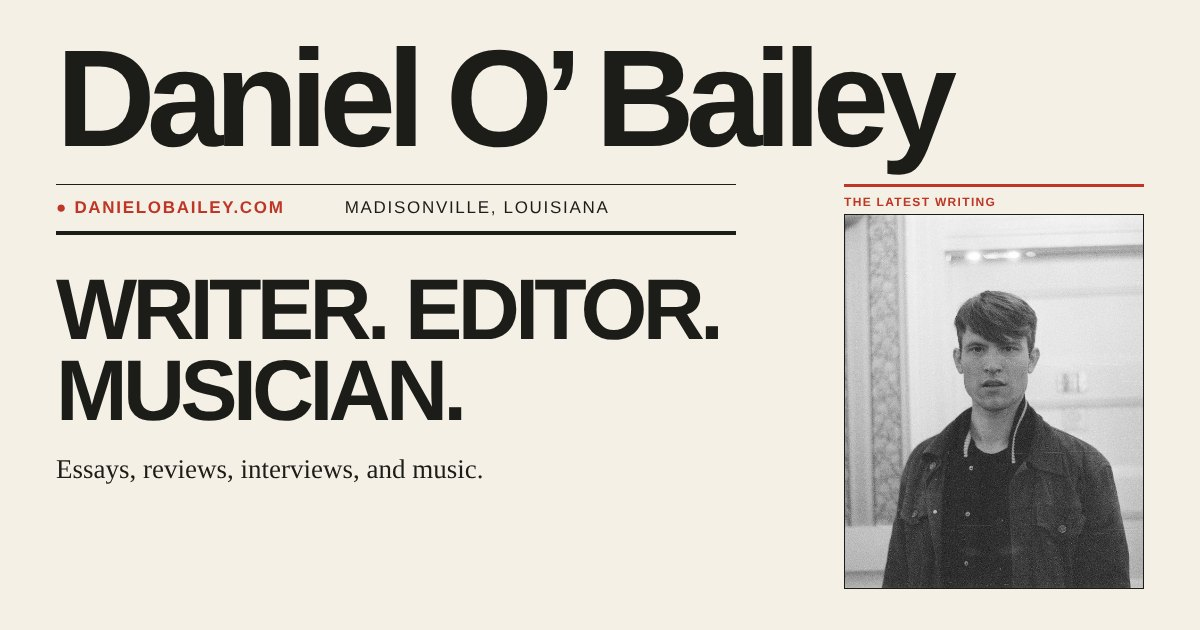
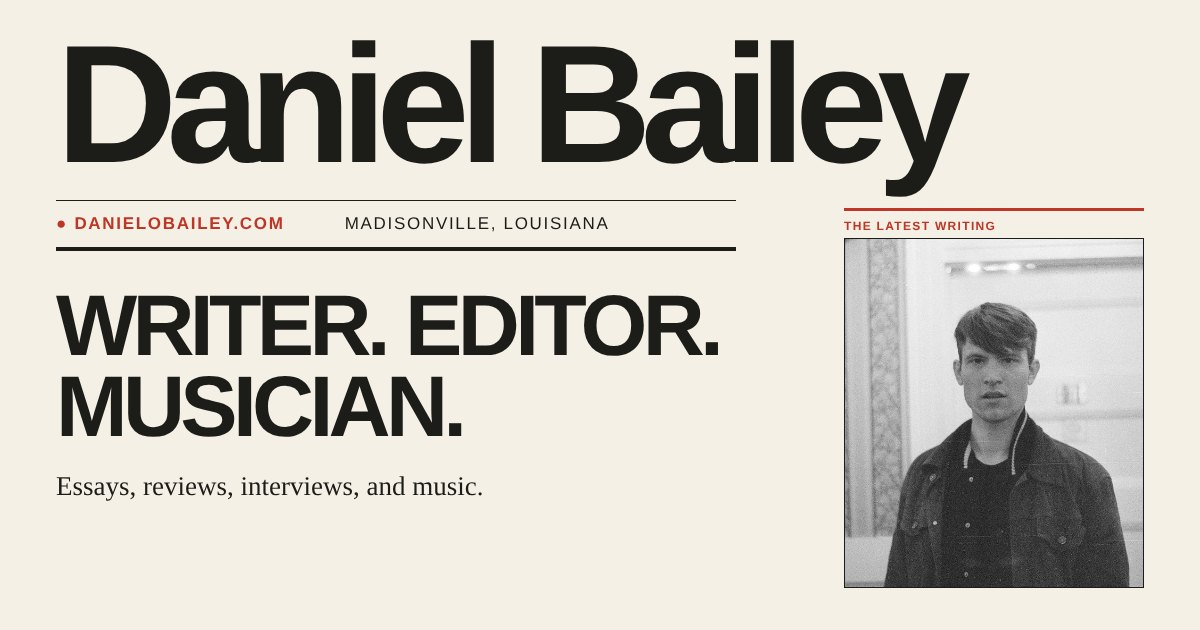
Use Daniel Bailey as the primary name
Switch the masthead, title, metadata, structured data, manifest and share
image to Daniel Bailey, keeping Daniel O' Bailey as an alternate name.
Add Madisonville to the title to separate this Daniel Bailey from others.

Claude-Session: https://claude.ai/code/session_01Q3Mwtffpc7b6nRW43CpaYg

diff --git a/index.html b/index.html
@@ -4,33 +4,33 @@
   <meta charset="UTF-8">
   <meta name="viewport" content="width=device-width, initial-scale=1.0">
 
-  <title>Daniel O' Bailey | Writer, Editor &amp; Musician in Louisiana</title>
-  <meta name="description" content="Daniel O' Bailey is a writer, editor, and musician from Madisonville, Louisiana. Read his latest essays, reviews, satire, and interviews, or hire him to write and edit.">
-  <meta name="author" content="Daniel O' Bailey">
+  <title>Daniel Bailey | Writer, Editor &amp; Musician in Madisonville, Louisiana</title>
+  <meta name="description" content="Daniel Bailey is a writer, editor, and musician from Madisonville, Louisiana. Read his latest essays, reviews, satire, and interviews, or hire him to write and edit.">
+  <meta name="author" content="Daniel Bailey">
   <meta name="robots" content="index, follow, max-image-preview:large, max-snippet:-1, max-video-preview:-1">
   <link rel="canonical" href="https://danielobailey.com/">
-  <link rel="alternate" type="application/rss+xml" title="Daniel O' Bailey on Substack" href="https://danielbaileyoffical.substack.com/feed">
+  <link rel="alternate" type="application/rss+xml" title="Daniel Bailey on Substack" href="https://danielbaileyoffical.substack.com/feed">
   <link rel="me" href="https://danielbaileyoffical.substack.com/">
   <link rel="me" href="https://www.instagram.com/danielbaileyoffical/">
 
   <!-- Social sharing -->
   <meta property="og:type" content="profile">
-  <meta property="og:site_name" content="Daniel O' Bailey">
+  <meta property="og:site_name" content="Daniel Bailey">
   <meta property="og:url" content="https://danielobailey.com/">
-  <meta property="og:title" content="Daniel O' Bailey | Writer, Editor &amp; Musician in Louisiana">
+  <meta property="og:title" content="Daniel Bailey | Writer, Editor &amp; Musician in Madisonville, Louisiana">
   <meta property="og:description" content="Essays, reviews, satire, and interviews from a Louisiana writer, editor, and musician. Read the latest or get in touch about a project.">
   <meta property="og:image" content="https://danielobailey.com/og-image.jpg">
   <meta property="og:image:width" content="1200">
   <meta property="og:image:height" content="630">
-  <meta property="og:image:alt" content="Daniel O' Bailey, writer, editor and musician from Madisonville, Louisiana">
+  <meta property="og:image:alt" content="Daniel Bailey, writer, editor and musician from Madisonville, Louisiana">
   <meta property="og:locale" content="en_US">
   <meta property="profile:first_name" content="Daniel">
   <meta property="profile:last_name" content="Bailey">
   <meta name="twitter:card" content="summary_large_image">
-  <meta name="twitter:title" content="Daniel O' Bailey | Writer, Editor &amp; Musician in Louisiana">
+  <meta name="twitter:title" content="Daniel Bailey | Writer, Editor &amp; Musician in Madisonville, Louisiana">
   <meta name="twitter:description" content="Essays, reviews, satire, and interviews from a Louisiana writer, editor, and musician.">
   <meta name="twitter:image" content="https://danielobailey.com/og-image.jpg">
-  <meta name="twitter:image:alt" content="Daniel O' Bailey, writer, editor and musician from Madisonville, Louisiana">
+  <meta name="twitter:image:alt" content="Daniel Bailey, writer, editor and musician from Madisonville, Louisiana">
 
   <!-- Icons -->
   <link rel="icon" href="/favicon.svg" type="image/svg+xml">
@@ -51,9 +51,9 @@
     {
       "@type": "Person",
       "@id": "https://danielobailey.com/#person",
-      "name": "Daniel O' Bailey",
+      "name": "Daniel Bailey",
       "alternateName": [
-        "Daniel Bailey",
+        "Daniel O' Bailey",
         "Daniel O'Bailey",
         "Daniel O. Bailey",
         "Daniel O'Neal Bailey",
@@ -68,7 +68,7 @@
         "url": "https://danielobailey.com/img/daniel-o-bailey.webp",
         "width": 880,
         "height": 1100,
-        "caption": "Daniel O' Bailey"
+        "caption": "Daniel Bailey"
       },
       "email": "danieloproductions@gmail.com",
       "jobTitle": [
@@ -80,6 +80,7 @@
         "Social Media Lead",
         "Communications Producer"
       ],
+      "disambiguatingDescription": "Louisiana writer, creative nonfiction editor at Blood+Honey, and co-organizer of GonzoFest 2026. Also published as Daniel O' Bailey.",
       "description": "Writer, editor, interviewer, musician, festival organizer, and communications producer based in Madisonville, Louisiana, working across Louisiana and Mississippi. Work spans creative nonfiction editing, interview features, essays, satire, public communications, social media, and music and audio production.",
       "knowsAbout": [
         "Creative nonfiction",
@@ -132,9 +133,9 @@
       "@type": "WebSite",
       "@id": "https://danielobailey.com/#website",
       "url": "https://danielobailey.com/",
-      "name": "Daniel O' Bailey",
+      "name": "Daniel Bailey",
       "alternateName": "danielobailey.com",
-      "description": "Essays, reviews, interviews, and music from Daniel O' Bailey, a writer, editor, and musician in Madisonville, Louisiana.",
+      "description": "Essays, reviews, interviews, and music from Daniel Bailey, a writer, editor, and musician in Madisonville, Louisiana.",
       "publisher": {
         "@id": "https://danielobailey.com/#person"
       },
@@ -144,7 +145,7 @@
       "@type": "ProfilePage",
       "@id": "https://danielobailey.com/#webpage",
       "url": "https://danielobailey.com/",
-      "name": "Daniel O' Bailey | Writer, Editor & Musician in Louisiana",
+      "name": "Daniel Bailey | Writer, Editor & Musician in Madisonville, Louisiana",
       "isPartOf": {
         "@id": "https://danielobailey.com/#website"
       },
@@ -161,7 +162,7 @@
     {
       "@type": "ItemList",
       "@id": "https://danielobailey.com/#latest",
-      "name": "Latest writing by Daniel O' Bailey",
+      "name": "Latest writing by Daniel Bailey",
       "itemListOrder": "https://schema.org/ItemListOrderDescending",
       "numberOfItems": 6,
       "itemListElement": [
@@ -266,7 +267,7 @@
   <a href="#main" class="skip-link">Skip to content</a>
 
   <header class="masthead container">
-    <div class="brandrow"><h1 class="brand"><a href="/" aria-label="Daniel O' Bailey, home">Daniel O&rsquo; Bailey</a></h1></div>
+    <div class="brandrow"><h1 class="brand"><a href="/" aria-label="Daniel Bailey, home">Daniel Bailey</a></h1></div>
     <div class="issueband"><span class="status">New: The Curse of Lono, reviewed</span><span>Writer. Editor. Musician.</span><span>Madisonville, Louisiana</span></div>
     <nav class="nav" id="nav" aria-label="Primary">
       <div class="nav-links" id="nav-links">
@@ -295,12 +296,12 @@
           <a href="#contact" class="btn">Work with me</a>
           <button class="btn" id="about-btn" type="button" aria-haspopup="dialog">About</button>
         </div>
-        <p class="smallnote">Bylines appear as Daniel O' Bailey and Daniel Bailey.</p>
+        <p class="smallnote">Some bylines appear as Daniel O' Bailey.</p>
       </div>
       <figure class="hero-photo">
-        <div class="archive-kicker"><span>Daniel O' Bailey</span><span>Madisonville, La.</span></div>
-        <img src="/img/daniel-o-bailey.webp" srcset="/img/daniel-o-bailey-480.webp 480w, /img/daniel-o-bailey.webp 880w" sizes="(max-width: 700px) 90vw, 500px" alt="Portrait of Daniel O' Bailey, writer, editor and musician" width="880" height="1100" fetchpriority="high" decoding="async">
-        <figcaption class="caption"><strong>Daniel O' Bailey.</strong> Writer, editor, and musician. Co-Organizer of <a href="https://gonzofest.net/participant/daniel-obailey/" target="_blank" rel="noopener">GonzoFest 2026</a>.</figcaption>
+        <div class="archive-kicker"><span>Daniel Bailey</span><span>Madisonville, La.</span></div>
+        <img src="/img/daniel-o-bailey.webp" srcset="/img/daniel-o-bailey-480.webp 480w, /img/daniel-o-bailey.webp 880w" sizes="(max-width: 700px) 90vw, 500px" alt="Portrait of Daniel Bailey, writer, editor and musician" width="880" height="1100" fetchpriority="high" decoding="async">
+        <figcaption class="caption"><strong>Daniel Bailey.</strong> Writer, editor, and musician. Co-Organizer of <a href="https://gonzofest.net/participant/daniel-obailey/" target="_blank" rel="noopener">GonzoFest 2026</a>.</figcaption>
       </figure>
     </div>
   </section>
@@ -311,7 +312,7 @@
       <button class="modal-close" id="modal-close" aria-label="Close">&times;</button>
       <h2 class="modal-title" id="about-modal-title">About Me</h2>
       <div class="modal-body">
-        <p>Daniel O' Bailey, also published as Daniel Bailey, is a writer, editor, interviewer, musician, and communications producer from Madisonville, Louisiana.</p>
+        <p>Daniel Bailey, also published as Daniel O' Bailey, is a writer, editor, interviewer, musician, and communications producer from Madisonville, Louisiana.</p>
         <p>His work sits where editorial judgment meets field work: interviews, research, public copy, narrative nonfiction, music, and creative production. He is interested in stories that make complex people and ideas legible without sanding off their human grain.</p>
         <p>For employers and collaborators, the practical value is simple: Daniel can interview, research, draft, edit, coordinate, produce, revise, and deliver under pressure while keeping the voice alive and the facts clean.</p>
         <div class="modal-bios">
@@ -344,7 +345,7 @@
               <span class="kicker">Newest &middot; Review</span>
               <h3><a href="https://danielbaileyoffical.substack.com/p/the-curse-of-lono-reviewed-from-the">The Curse of Lono, Reviewed from the City of Refuge</a></h3>
               <p class="dek">A review in two voices of the Simon &amp; Schuster reissue, with a word from Ralph Steadman's daughter.</p>
-              <p class="post-meta">By Daniel O' Bailey &middot; <time datetime="2026-10-28">Oct. 28, 2026</time></p>
+              <p class="post-meta">By Daniel Bailey &middot; <time datetime="2026-10-28">Oct. 28, 2026</time></p>
             </div>
           </article>
           <ul class="latest-list">
@@ -357,7 +358,7 @@
               </article>
             </li>
             <li class="latest-item">
-              <a href="https://danielbaileyoffical.substack.com/p/i-am-29-and-peter-richardson-has" tabindex="-1" aria-hidden="true"><img src="/img/peter-richardson.webp" alt="Daniel O' Bailey working at a desk in an empty office" width="480" height="320" loading="lazy" decoding="async"></a>
+              <a href="https://danielbaileyoffical.substack.com/p/i-am-29-and-peter-richardson-has" tabindex="-1" aria-hidden="true"><img src="/img/peter-richardson.webp" alt="Daniel Bailey working at a desk in an empty office" width="480" height="320" loading="lazy" decoding="async"></a>
               <article>
                 <span class="kicker">Essay + Audio</span>
                 <h3><a href="https://danielbaileyoffical.substack.com/p/i-am-29-and-peter-richardson-has">I Am 29 and Peter Richardson Has Me By the Throat</a></h3>
@@ -365,7 +366,7 @@
               </article>
             </li>
             <li class="latest-item">
-              <a href="https://danielbaileyoffical.substack.com/p/i-tried-to-obey-every-self-help-video-e72" tabindex="-1" aria-hidden="true"><img src="/img/self-help.webp" alt="Daniel O' Bailey sitting on a bed looking down at his phone" width="480" height="320" loading="lazy" decoding="async"></a>
+              <a href="https://danielbaileyoffical.substack.com/p/i-tried-to-obey-every-self-help-video-e72" tabindex="-1" aria-hidden="true"><img src="/img/self-help.webp" alt="Daniel Bailey sitting on a bed looking down at his phone" width="480" height="320" loading="lazy" decoding="async"></a>
               <article>
                 <span class="kicker">Satire</span>
                 <h3><a href="https://danielbaileyoffical.substack.com/p/i-tried-to-obey-every-self-help-video-e72">I Tried To Obey Every Self-Help Video In My Feed For One Day</a></h3>
@@ -373,7 +374,7 @@
               </article>
             </li>
             <li class="latest-item">
-              <a href="https://danielbaileyoffical.substack.com/p/gonzofest-behind-the-scenes-3" tabindex="-1" aria-hidden="true"><img src="/img/gonzofest-3.webp" alt="Daniel O' Bailey standing outside in dappled light with a camera strap over his shoulder" width="480" height="320" loading="lazy" decoding="async"></a>
+              <a href="https://danielbaileyoffical.substack.com/p/gonzofest-behind-the-scenes-3" tabindex="-1" aria-hidden="true"><img src="/img/gonzofest-3.webp" alt="Daniel Bailey standing outside in dappled light with a camera strap over his shoulder" width="480" height="320" loading="lazy" decoding="async"></a>
               <article>
                 <span class="kicker">GonzoFest Dispatch</span>
                 <h3><a href="https://danielbaileyoffical.substack.com/p/gonzofest-behind-the-scenes-3">GonzoFest Behind The Scenes #3</a></h3>
@@ -381,7 +382,7 @@
               </article>
             </li>
             <li class="latest-item">
-              <a href="https://danielbaileyoffical.substack.com/p/the-cowpasture" tabindex="-1" aria-hidden="true"><img src="/img/cowpasture.webp" alt="Daniel O' Bailey walking through tree shade with a camera" width="480" height="320" loading="lazy" decoding="async"></a>
+              <a href="https://danielbaileyoffical.substack.com/p/the-cowpasture" tabindex="-1" aria-hidden="true"><img src="/img/cowpasture.webp" alt="Daniel Bailey walking through tree shade with a camera" width="480" height="320" loading="lazy" decoding="async"></a>
               <article>
                 <span class="kicker">Essay</span>
                 <h3><a href="https://danielbaileyoffical.substack.com/p/the-cowpasture">The Cowpasture</a></h3>
@@ -490,7 +491,7 @@
       </div>
 
       <div class="hire-proof">
-        <p><strong>What I'm doing now:</strong> Creative Nonfiction Editor at Blood+Honey Literary Magazine; Co-Organizer and Social Media Lead for GonzoFest 2026; freelance writer/reporter with work connected to Blood+Honey, Maudlin House, Country Roads, and L'Observateur; audio engineer and producer with New Orleans studio experience. Bylines appear as both Daniel O' Bailey and Daniel Bailey.</p>
+        <p><strong>What I'm doing now:</strong> Creative Nonfiction Editor at Blood+Honey Literary Magazine; Co-Organizer and Social Media Lead for GonzoFest 2026; freelance writer/reporter with work connected to Blood+Honey, Maudlin House, Country Roads, and L'Observateur; audio engineer and producer with New Orleans studio experience. Some bylines appear as Daniel O' Bailey.</p>
       </div>
     </div>
   </section>
@@ -566,12 +567,12 @@
   <footer class="footer">
     <div class="container footer-inner">
       <div>
-        <a class="footerbrand" href="/">Daniel O&rsquo; Bailey</a>
+        <a class="footerbrand" href="/">Daniel Bailey</a>
         <p class="tag">Writer. Editor. Musician.</p>
       </div>
       <div>
         <p class="fine">Madisonville, Louisiana. Essays and stories on <a href="https://danielbaileyoffical.substack.com/">Substack</a> (<a href="https://danielbaileyoffical.substack.com/feed">RSS</a>). Editor and publisher of <a href="https://scanlansmagazine.com/">Scanlan&rsquo;s Magazine</a>.</p>
-        <p class="fine">&copy; 2026 Daniel O' Bailey.</p>
+        <p class="fine">&copy; 2026 Daniel Bailey.</p>
       </div>
     </div>
   </footer>

diff --git a/404.html b/404.html
@@ -3,7 +3,7 @@
 <head>
   <meta charset="UTF-8">
   <meta name="viewport" content="width=device-width, initial-scale=1.0">
-  <title>Page Not Found | Daniel O' Bailey</title>
+  <title>Page Not Found | Daniel Bailey</title>
   <meta name="description" content="That page doesn't exist. Return to danielobailey.com.">
   <meta name="robots" content="noindex, follow">
   <link rel="icon" href="/favicon.svg" type="image/svg+xml">
@@ -15,7 +15,7 @@
 <body>
 
   <header class="masthead container">
-    <div class="brandrow"><p class="brand"><a href="/">Daniel O&rsquo; Bailey</a></p></div>
+    <div class="brandrow"><p class="brand"><a href="/">Daniel Bailey</a></p></div>
     <nav class="nav" aria-label="Primary"><div class="nav-links"><a href="/">Front page</a><a href="/#latest">Latest</a><a href="/#contact">Contact</a></div></nav>
   </header>
 
@@ -30,8 +30,8 @@
 
   <footer class="footer">
     <div class="container footer-inner">
-      <div><a class="footerbrand" href="/">Daniel O&rsquo; Bailey</a><p class="tag">Writer. Editor. Musician.</p></div>
-      <div><p class="fine">&copy; 2026 Daniel O' Bailey. Madisonville, Louisiana.</p></div>
+      <div><a class="footerbrand" href="/">Daniel Bailey</a><p class="tag">Writer. Editor. Musician.</p></div>
+      <div><p class="fine">&copy; 2026 Daniel Bailey. Madisonville, Louisiana.</p></div>
     </div>
   </footer>
 

diff --git a/style.css b/style.css
@@ -1,5 +1,5 @@
 /* ============================================
-   Daniel O' Bailey | Personal Site
+   Daniel Bailey | Personal Site
    Built on the Scanlan's Magazine system:
    cream paper, ink, one red, hairline rules.
    Helvetica/Arial heads, Georgia text. No webfonts.
@@ -86,7 +86,7 @@ a:focus-visible, button:focus-visible { outline: 3px solid var(--red); outline-o
 .brand {
   font-family: var(--sans);
   font-weight: 700;
-  font-size: clamp(40px, 11.6vw, 172px);
+  font-size: clamp(48px, 14.3vw, 202px);
   line-height: .94;
   letter-spacing: -.065em;
   margin-left: -.012em;
